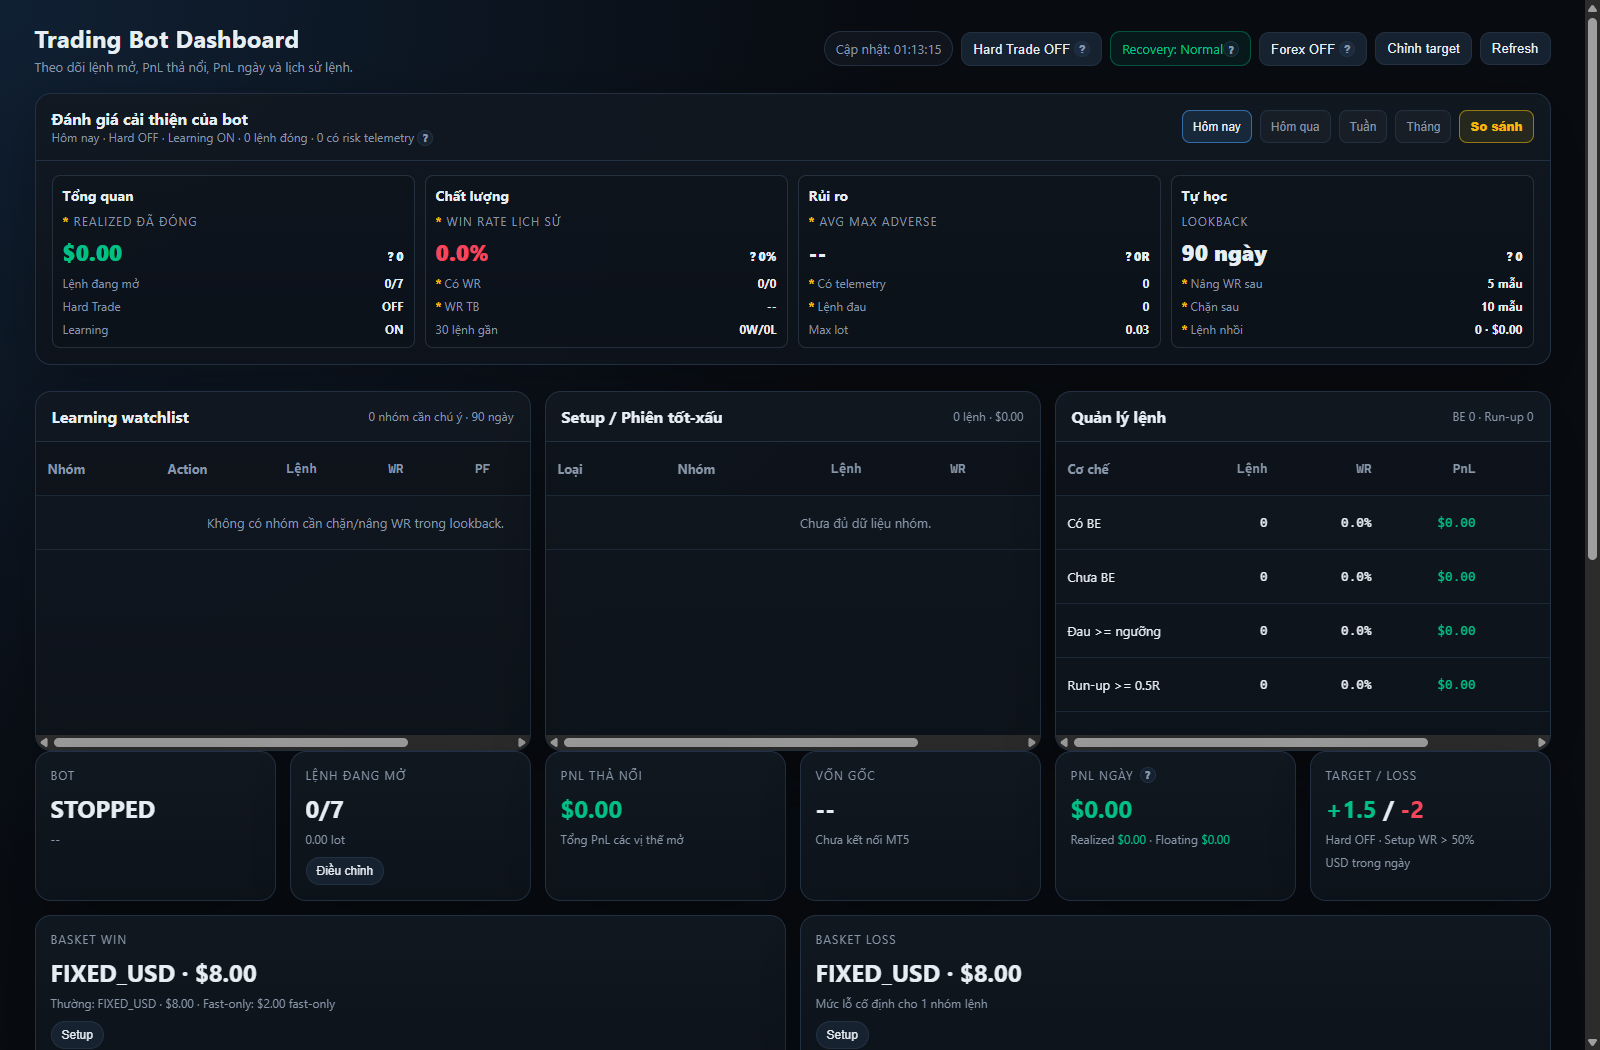
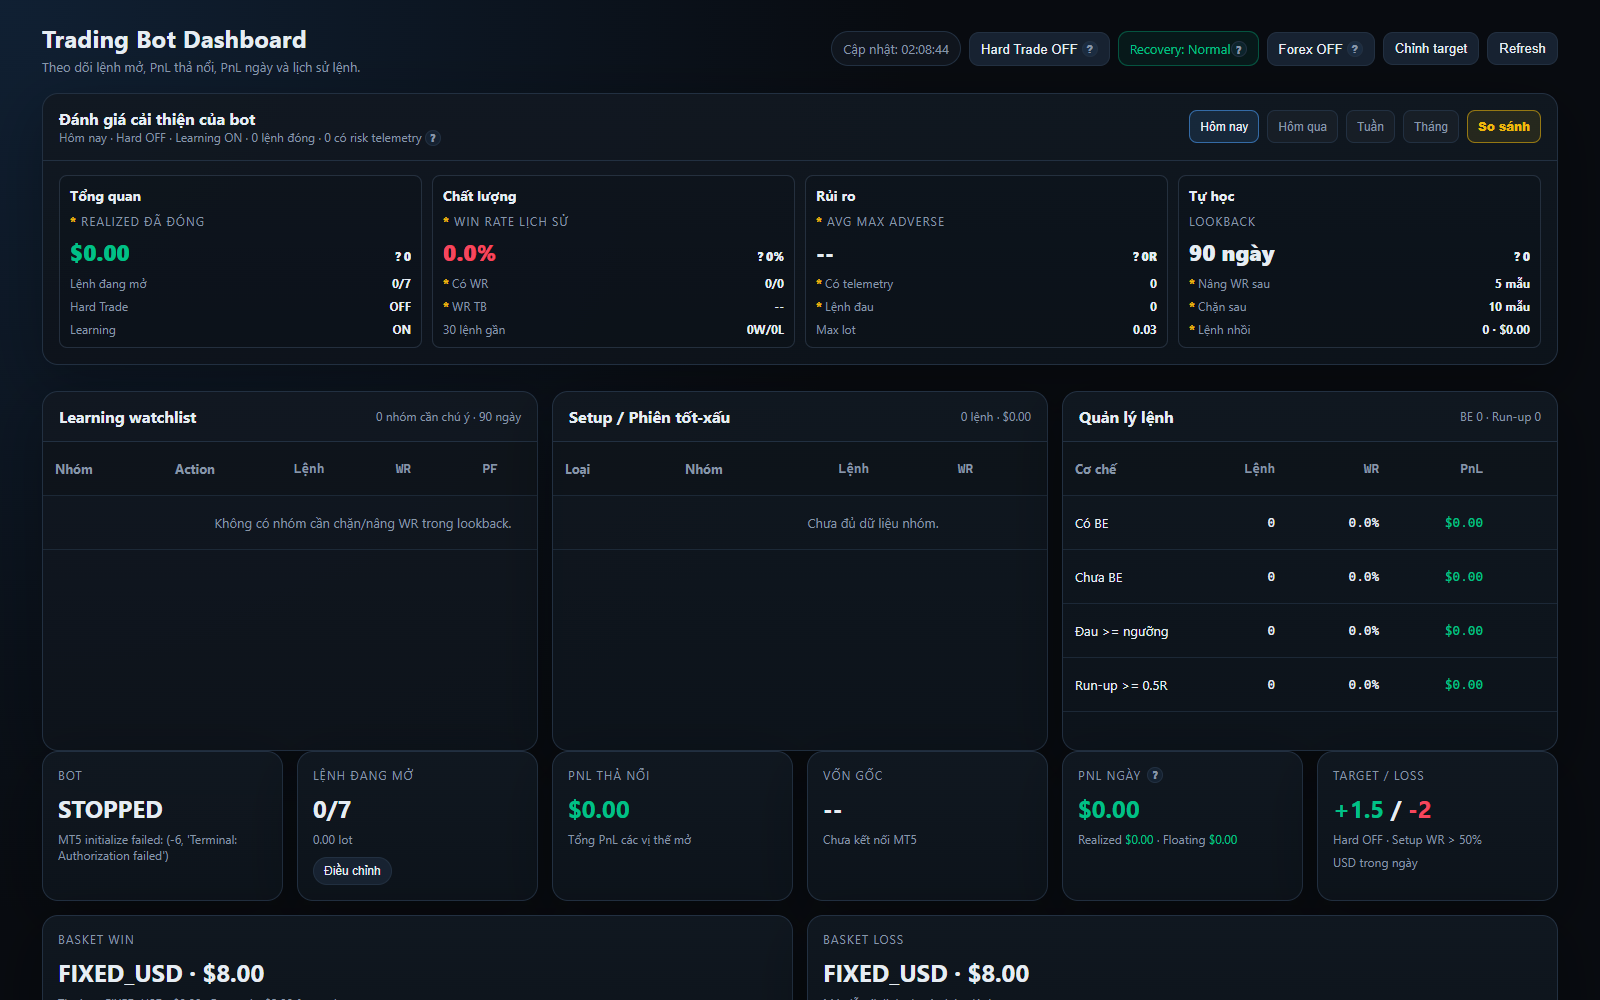
docs(bot-fx): update XAUUSD bot dashboard screenshot and complete README

diff --git a/bot-FX/README.md b/bot-FX/README.md
@@ -1,7 +1,132 @@
-# 🟡 bot-FX: Automated Trading Solutions for MetaTrader 5
+# 🟡 Bot FX: XAUUSD (Gold) & Forex MetaTrader 5 Trading Bot
 
-Thư mục này chứa các dự án giao dịch ngoại hối và kim loại quý (Vàng - XAUUSD) tự động kết nối qua MetaTrader 5 Desktop Terminal.
+Hệ thống giao dịch tự động định lượng chuyên biệt cho thị trường **Vàng (XAUUSD)** và **Ngoại hối (Forex)**, kết nối trực tiếp với nền tảng **MetaTrader 5 (MT5) Desktop Terminal**.
 
-## Dự án chính
+Hệ thống sử dụng **động cơ quy tắc xác định 100% (Deterministic Rule-Based Engine)**, dựa trên ma trận chỉ báo kỹ thuật định lượng (EMA, RSI, ATR, ADX, MACD) kết hợp đa tầng phòng hộ rủi ro (Risk Guard), Basket Stop Loss/Take Profit và Web Dashboard điều hành trực quan thời gian thực.
 
-- 👉 **[xauusd-trading-bot](xauusd-trading-bot/README.md)**: Hệ thống bot giao dịch định lượng chuyên sâu cho XAUUSD với kiến trúc Rule-Based 100% xác định, ma trận chỉ báo kỹ thuật (EMA/RSI/ATR/ADX/MACD), quản lý Basket lệnh thông minh và Web Dashboard điều hành trực quan.\n
+---
+
+## 🖼 Giao Diện Điều Hành (Operator Web Dashboard)
+
+Bot được tích hợp sẵn giao diện Web Dashboard Dark-Theme thời gian thực được xây dựng trên nền tảng **FastAPI**, cung cấp bức tranh toàn cảnh về thị trường, tài khoản và trạng thái các lệnh:
+
+![Bot FX XAUUSD Trading Dashboard](docs/images/dashboard.png)
+
+### Các Tính Năng Nổi Bật Trên Dashboard:
+1. **Bảng Chỉ Số Tài Khoản Thời Gian Thực (Financial Metrics)**:
+   - **Tài khoản**: Số dư (Balance), Tài sản ròng (Equity), Lợi nhuận trong ngày (Today PnL).
+   - **Hiệu suất**: Tỷ lệ thắng (Win Rate), Tổng số lệnh (Total Trades), Ký quỹ khả dụng và Tỷ lệ ký quỹ (Margin Level).
+   - **Trạng thái**: Chế độ vận hành (PAPER, DEMO, LIVE), Kết nối MT5 Broker, Tình trạng kích hoạt bot.
+2. **Biểu Đồ Giá Vàng Trực Tiếp (Live Gold Price Chart)**:
+   - Tích hợp biểu đồ TradingView tương tác cao theo dõi sát diễn biến giá XAUUSD theo thời gian thực.
+3. **Ma Trận Tín Hiệu & Chỉ Báo Định Lượng (Real-time Signals)**:
+   - **EMA 50 / EMA 200**: Bộ lọc xác định xu hướng thị trường trung và dài hạn.
+   - **RSI (14)**: Nhận diện động lượng quá mua (Overbought) và quá bán (Oversold).
+   - **ATR (14)**: Đo lường biên độ biến động thực tế để tính toán khoảng cách Stop Loss và Trailing Stop động.
+   - **ADX (14)**: Đánh giá độ mạnh của xu hướng nhằm loại bỏ nhiễu khi thị trường đi ngang (Sideway).
+   - **MACD**: Xác nhận tín hiệu giao cắt động lượng trước khi kích hoạt lệnh.
+4. **Quản Lý Vị Thế & Rổ Lệnh (Open Positions & Baskets)**:
+   - Theo dõi từng vị thế mở (Ticket, Symbol, Type, Volume, Open Price, SL, TP, PnL).
+   - Quản lý theo cụm rổ lệnh (Basket), cho phép đóng toàn bộ rổ khi đạt mục tiêu lợi nhuận hoặc chạm ngưỡng dừng lỗ tổng.
+5. **Trung Tâm Cấu Hình & Can Thiệp Khẩn Cấp (Configuration & Emergency Controls)**:
+   - Nút can thiệp nhanh: **Close All Positions** (Đóng toàn bộ vị thế), **Pause/Resume Entry** (Tạm dừng/Tiếp tục vào lệnh mới).
+   - Tinh chỉnh tham số rủi ro trực tiếp: Daily Max Loss, Max Drawdown, Basket TP/SL, Hard Trade Limits.
+
+---
+
+## 🛡 Đa Tầng Quản Trị Rủi Ro (Multi-Layer Risk Guard)
+
+Thị trường Vàng (XAUUSD) có biên độ dao động mạnh và thường xuyên chịu ảnh hưởng từ tin tức kinh tế vĩ mô. Bot FX được trang bị hệ thống quản trị rủi ro nghiêm ngặt:
+
+| Cơ chế | Mô tả chi tiết |
+| :--- | :--- |
+| **Daily Drawdown Limit** | Tự động ngừng giao dịch trong ngày khi tổng thua lỗ đạt ngưỡng tối đa quy định. |
+| **Basket SL & TP** | Bảo vệ rổ lệnh bằng cách chốt lời hoặc cắt lỗ toàn bộ cụm lệnh tương quan. |
+| **Dynamic Lot Sizing** | Tính toán khối lượng vào lệnh tự động dựa trên số dư khả dụng (Equity) và giá trị Tick của Vàng. |
+| **Max Spread & Slippage Filter** | Chặn vào lệnh khi spread bị giãn mạnh trong thời điểm ra tin tức hoặc phiên giao dịch thanh khoản thấp. |
+| **Hard Trade Limit** | Giới hạn số lượng lệnh mở đồng thời và số giao dịch tối đa mỗi ngày để chống over-trading. |
+| **Trailing Stop Động (ATR-based)** | Tự động dời Stop Loss theo bước sóng của ATR để bảo toàn lợi nhuận đã đạt được. |
+
+---
+
+## 📂 Cấu Trúc Dự Án
+
+`	ext
+bot-FX/
+├── docs/
+│   └── images/
+│       └── dashboard.png           # Ảnh chụp giao diện Dashboard XAUUSD thực tế
+├── xauusd-trading-bot/              # Thư mục mã nguồn chính của bot
+│   ├── app/
+│   │   ├── main.py                 # FastAPI application entrypoint
+│   │   ├── runtime.py              # Bot runtime loop & state manager
+│   │   ├── routes_dashboard.py     # Endpoint phục vụ giao diện Web Dashboard
+│   │   ├── api/                    # REST API routes điều khiển bot
+│   │   ├── broker/                 # Module kết nối MetaTrader 5 (MT5 IPC client)
+│   │   ├── engine/                 # Động cơ quy tắc xác định & ma trận chỉ báo
+│   │   ├── risk/                   # Bộ kiểm soát rủi ro đa tầng (Risk Manager)
+│   │   └── storage/                # Lưu trữ cơ sở dữ liệu SQLite/PostgreSQL
+│   ├── config/
+│   │   └── trading_bot.yaml        # File cấu hình tham số chiến lược và quản lý vốn
+│   ├── docs/
+│   │   └── images/
+│   │       └── dashboard.png       # Ảnh chụp UI dashboard
+│   ├── scripts/
+│   │   └── run_paper.py            # Script khởi chạy chế độ Paper trading
+│   ├── RUN_BOT_DASHBOARD.bat       # File khởi động nhanh Dashboard trên Windows
+│   ├── pyproject.toml              # Quản lý dependencies (Poetry / Pip)
+│   └── README.md                   # Tài liệu chi tiết nội bộ dự án
+└── README.md                       # Tài liệu tổng quan bot-FX (file này)
+`
+
+---
+
+## 🚀 Hướng Dẫn Cài Đặt & Vận Hành
+
+### 1. Yêu Cầu Môi Trường
+- **Hệ điều hành**: Windows 10/11 64-bit (bắt buộc để chạy MetaTrader 5 Desktop Terminal).
+- **Python**: Phiên bản 3.11 trở lên.
+- **MetaTrader 5**: Đã cài đặt MT5 Desktop Terminal và mở tài khoản Demo hoặc Real.
+
+### 2. Cài Đặt Thư Viện
+
+`powershell
+cd C:\Users\Admin\Documents\crypto\bot-FX\xauusd-trading-bot
+python -m pip install -e .
+`
+
+### 3. Cấu Hình Biến Môi Trường
+
+Tạo file .env từ file mẫu .env.example:
+
+`ash
+TRADING_MODE=PAPER                  # PAPER, DEMO, hoặc LIVE
+BROKER_STARTUP_ENABLED=false        # Đặt true khi kết nối MT5 thật
+MT5_LOGIN=your_account_number
+MT5_PASSWORD=your_password
+MT5_SERVER=your_broker_server
+DATABASE_URL=sqlite:///data/trading_bot.db
+API_HOST=127.0.0.1
+API_PORT=8000
+`
+
+### 4. Khởi Chạy Web Dashboard
+
+Cách 1: Chạy file batch tự động:
+`powershell
+.\RUN_BOT_DASHBOARD.bat
+`
+
+Cách 2: Chạy trực tiếp bằng Python:
+`powershell
+cd C:\Users\Admin\Documents\crypto\bot-FX\xauusd-trading-bot
+python -m uvicorn app.main:app --host 127.0.0.1 --port 8000
+`
+
+Truy cập giao diện điều hành tại: **http://127.0.0.1:8000/dashboard**
+
+---
+
+## 🔗 Liên Kết Liên Quan
+- [Tài liệu chi tiết nội bộ xauusd-trading-bot](xauusd-trading-bot/README.md)
+- [README tổng quan toàn bộ hệ thống](../README.md)

diff --git a/README.md b/README.md
@@ -100,7 +100,7 @@ Các hệ thống được cấu hình trên các cổng dịch vụ độc lậ
 | Bot | Cổng Dịch Vụ | Lệnh Khởi Chạy UI | Đường Dẫn Truy Cập |
 | :--- | :--- | :--- | :--- |
 | **bot_spot** | Port 8000 | `python -m uvicorn spot_ai_bot.main:app --port 8000` | http://localhost:8000 |
-| **bot-FX / xauusd** | Port 8000 *(hoặc đổi port)* | `python -m uvicorn app.api.main:app --port 8000` | http://127.0.0.1:8000/dashboard |
+| **bot-FX / xauusd** | Port 8000 *(hoặc đổi port)* | `python -m uvicorn app.main:app --port 8000` | http://127.0.0.1:8000/dashboard |
 | **Crypto_Bunny** | Port 8013 | `python -m crypto_trader ui --config config.demo.yaml --port 8013` | http://localhost:8013 |
 | **Future_V2** | Port 8014 | `python -m uvicorn app.api.main:app --port 8014` | http://localhost:8014/dashboard |
 | **OKX-P2P-Profit-Bot** | Port 8501 | `streamlit run app.py --server.port 8501` | http://localhost:8501 |
